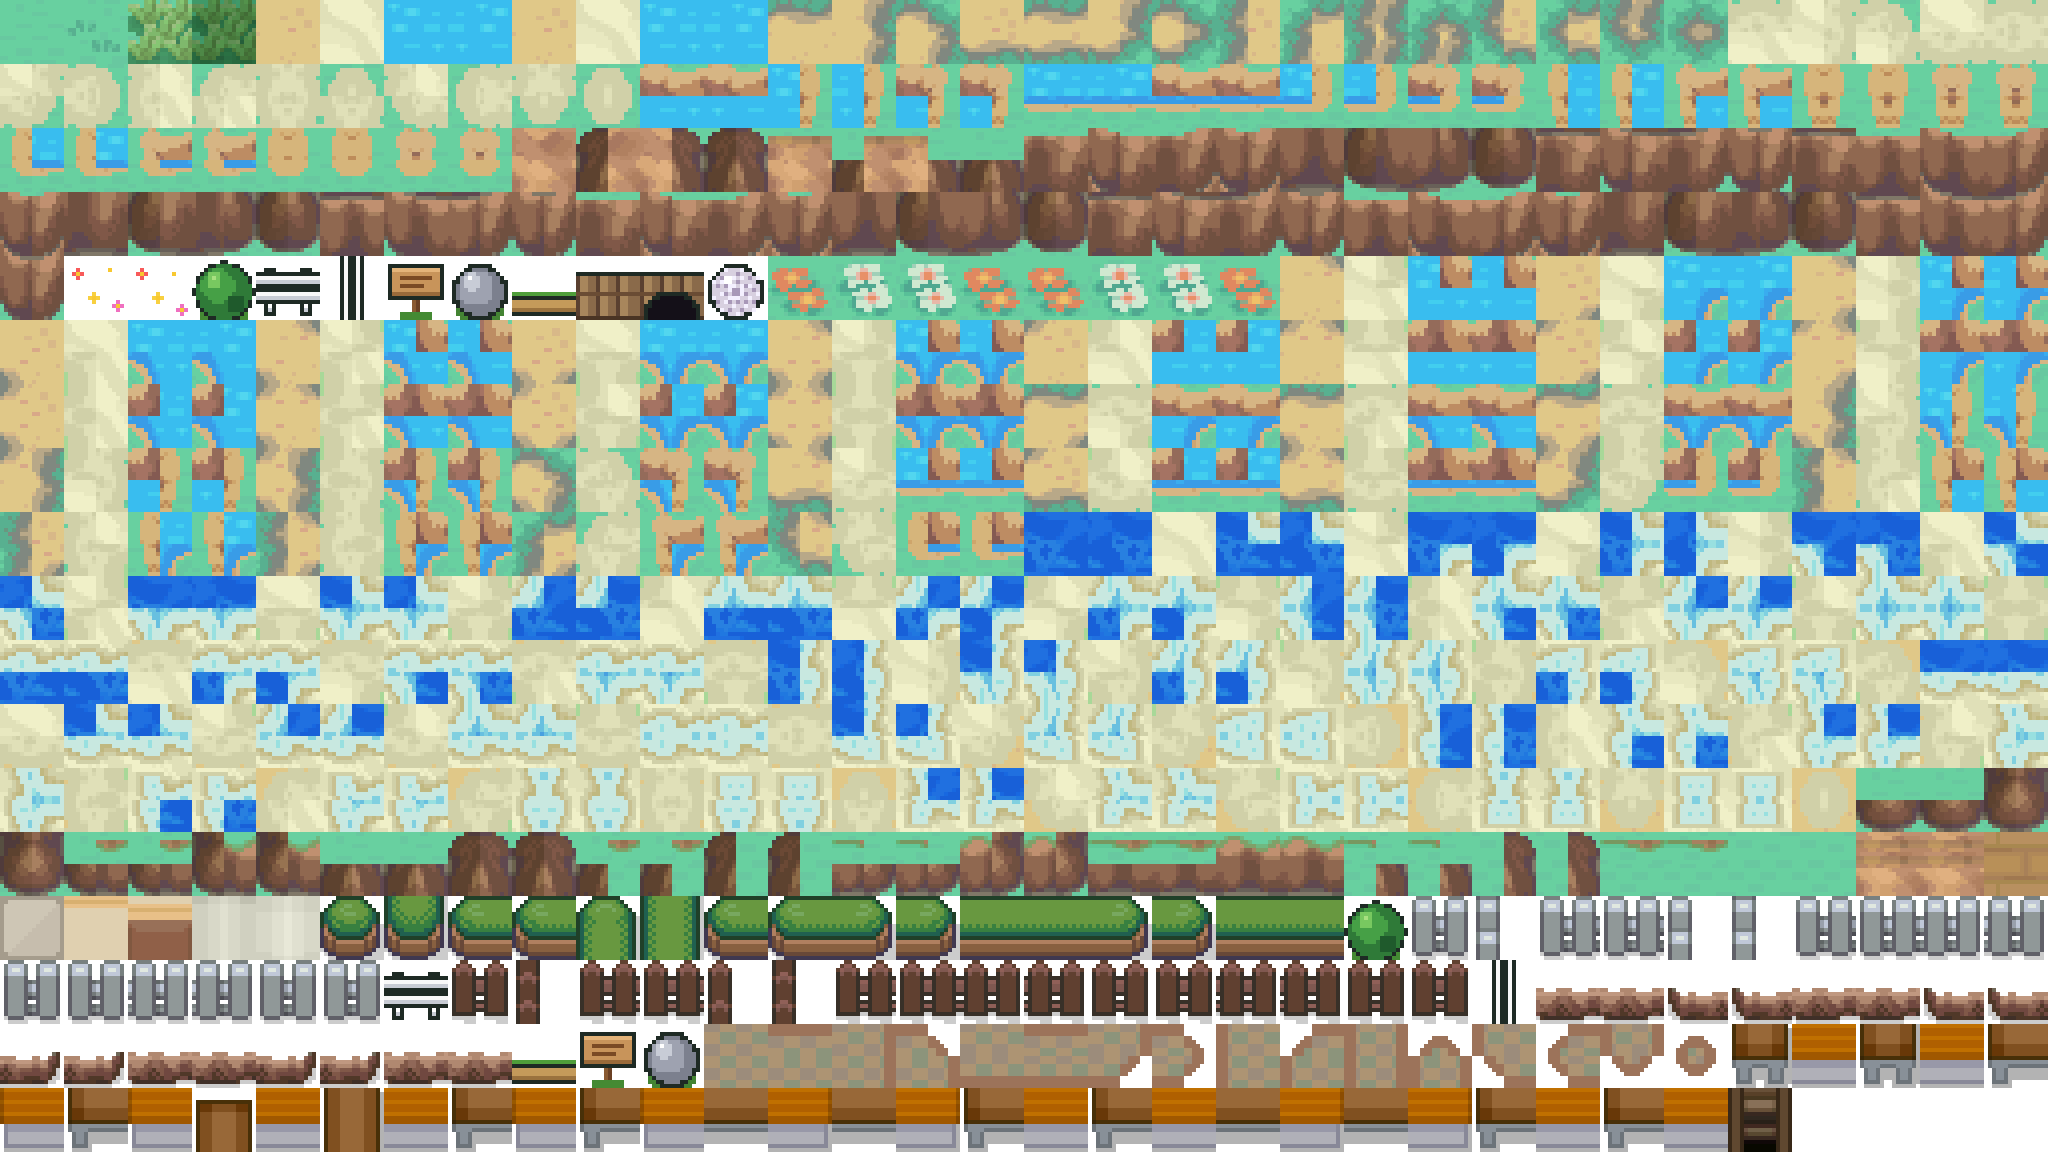
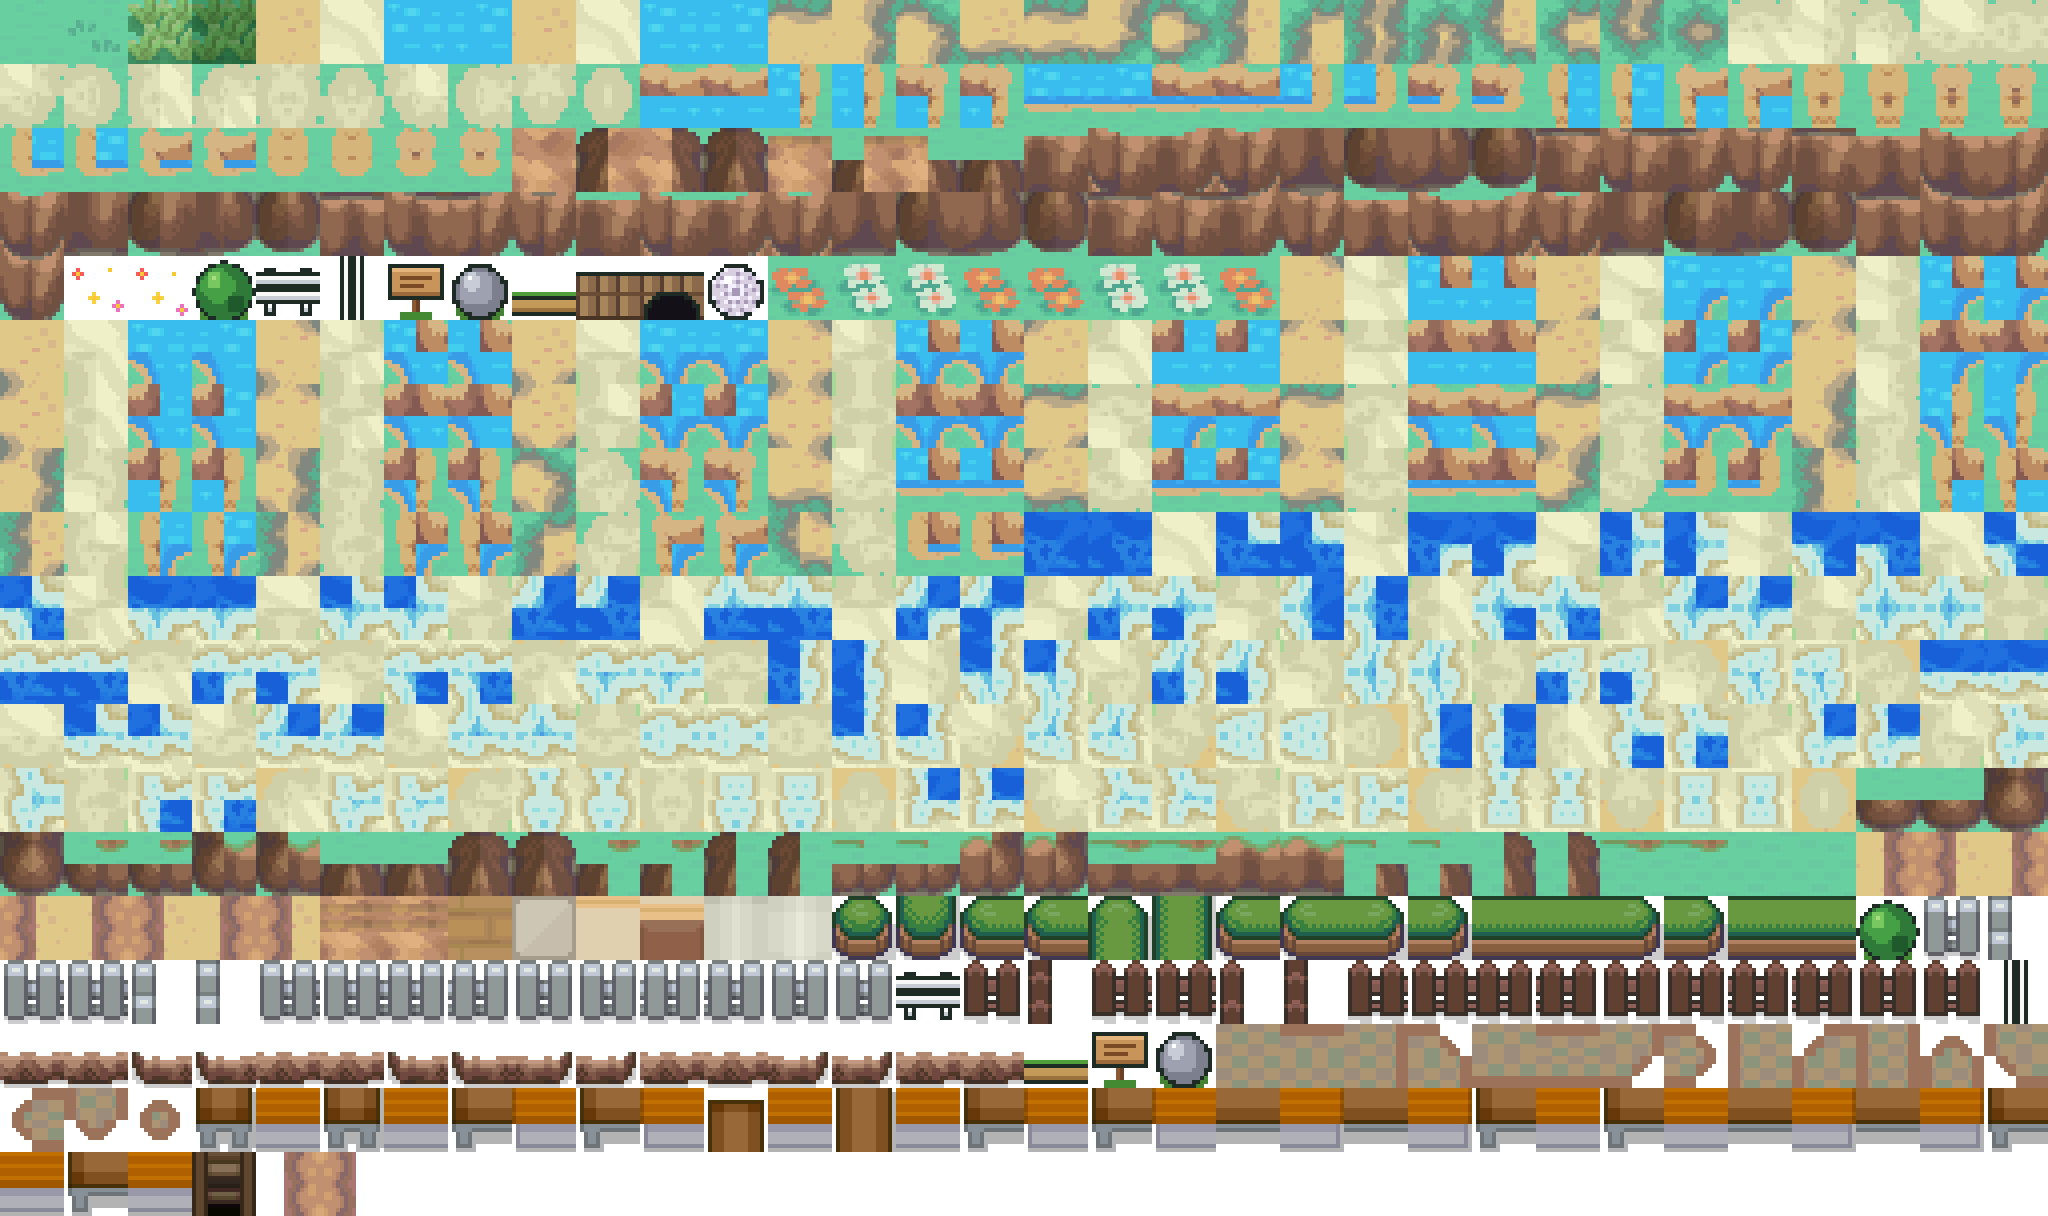
V2: laterales de las terrazas de montaña (canto junto a los árboles y al río)
Claude-Session: https://claude.ai/code/session_018v1fAZrQHSEnPWssP3zxe4

diff --git a/src/game/world/builder.ts b/src/game/world/builder.ts
@@ -149,9 +149,26 @@ export const AJUSTES_TERRENO = {
    *  junto al camino (con el camino en lugar de césped, ver tools/art/tileset_v2.py). */
   orillaJuntoCamino: false,
 };
-export function mismoTerreno(m: MapDef, ch: string, xx: number, yy: number): boolean {
+/** V2: ¿la casilla de camino es una terraza de montaña? (subiendo o bajando por su columna, lo primero que no
+ *  es camino, agua ni puente es roca de montaña). */
+export function esTerraza(m: MapDef, x: number, y: number): boolean {
+  if (m.grid[y]?.[x] !== "p") return false;
+  for (const d of [-1, 1]) {
+    for (let k = 1; k < 12; k++) {
+      const c = m.grid[y + d * k]?.[x];
+      if (c === undefined) break;
+      if ("p~=|*^".includes(c)) continue;
+      if (c === "%" || c === "O") return true;
+      break;
+    }
+  }
+  return false;
+}
+export function mismoTerreno(m: MapDef, ch: string, xx: number, yy: number, ox = xx, oy = yy): boolean {
   const sinBorde = ch === "p" ? (AJUSTES_TERRENO.orillaJuntoCamino ? "%^=|*Os!" : "%^=|*O~s!") : ch === "~" ? (AJUSTES_TERRENO.orillaJuntoCamino ? "=|*%" : "=|*%p") : ch === "s" ? (AJUSTES_TERRENO.orillaJuntoCamino ? "%^=|*O~" : "%^=|*O~p") : "";
   const c = m.grid[yy]?.[xx];
+  // V2: entre una terraza de montaña y el río no hay orilla (el canto de la terraza cae al agua)
+  if (AJUSTES_TERRENO.orillaJuntoCamino && ((ch === "~" && c === "p" && esTerraza(m, xx, yy)) || (ch === "p" && c !== undefined && "~*".includes(c) && esTerraza(m, ox, oy)))) return true;
   // (V1: el camino entra bajo la puerta de los edificios; V2: el borde del camino sigue recto bajo la fachada)
   return c === undefined || c === ch || sinBorde.includes(c) || (ch === "p" && (c.startsWith("@muro_puerta") || (c === "@puerta_hd" && !AJUSTES_TERRENO.orillaJuntoCamino)));
 }
@@ -160,7 +177,7 @@ export function mismoTerreno(m: MapDef, ch: string, xx: number, yy: number): boo
 export function esquinas(m: MapDef, x: number, y: number): number {
   const ch = m.grid[y]?.[x];
   if (ch !== "~" && ch !== "p" && ch !== "s") return 0;
-  const s = (dx: number, dy: number) => mismoTerreno(m, ch, x + dx, y + dy);
+  const s = (dx: number, dy: number) => mismoTerreno(m, ch, x + dx, y + dy, x, y);
   let d = 0;
   if (s(0, -1) && s(1, 0) && !s(1, -1)) d |= 1;
   if (s(0, 1) && s(1, 0) && !s(1, 1)) d |= 2;
@@ -190,7 +207,7 @@ export function tileAt(m: MapDef, x: number, y: number, frame = 0): string {
     return `monte_cima_${roca(x, y - 1) ? 0 : 1}${e}${w}`;
   }
   if (ch === "~" || ch === "p" || ch === "s") {
-    const same = (xx: number, yy: number) => mismoTerreno(m, ch, xx, yy);
+    const same = (xx: number, yy: number) => mismoTerreno(m, ch, xx, yy, x, y);
     const mask = (same(x, y - 1) ? 0 : 1) | (same(x + 1, y) ? 0 : 2) | (same(x, y + 1) ? 0 : 4) | (same(x - 1, y) ? 0 : 8);
     if (ch === "~") return `agua_${mask}_${frame % 64 < 32 ? 0 : 1}`;
     return `${ch === "p" ? "camino" : "arena"}_${mask}`;

diff --git a/src/game/scenes/overworld.ts b/src/game/scenes/overworld.ts
@@ -5,7 +5,7 @@ import { AVATAR_SPRITE } from "../state";
 import type { Gfx } from "../gfx";
 import { W, H } from "../gfx";
 import { MAPS } from "../world/maps";
-import { tileAt, passable, isGrass, esquinas, mismoTerreno, AJUSTES_TERRENO, type MapDef, type NpcDef } from "../world/builder";
+import { tileAt, passable, isGrass, esquinas, mismoTerreno, esTerraza, AJUSTES_TERRENO, type MapDef, type NpcDef } from "../world/builder";
 import { V2 } from "../assets_data";
 AJUSTES_TERRENO.orillaJuntoCamino = V2;
 import { runScript, talkNpc, trainerBattle, wildBattle } from "../scripts";
@@ -475,9 +475,20 @@ export class Overworld implements Scene {
       }
       if (V2) t = this.variantePlaya(t, x, y);
       // V2: escaleras de un desnivel de césped (las de la montaña son de roca)
+      // V2: el borde de las terrazas de la montaña es su canto (lateral), que da sensación de altura
+      if (V2 && t === "valla_v") {
+        if (tileAt(this.map, x - 1, y).startsWith("camino")) t = "lateral_e";
+        else if (tileAt(this.map, x + 1, y).startsWith("camino")) t = "lateral_o";
+      }
       if (V2 && t === "escalon" && [x - 1, x + 1].some((xx) => tileAt(this.map, xx, y) === "acantilado")) t = "escalon_cesped";
       const vec = this.vecinos(x, y, t);
       g.tile(t, x * 16 - cx, y * 16 - cy, x, y, suelo, vec, this.map.env, t === "acantilado" || t === "cueva_entrada" ? 0 : esquinas(this.map, x, y));
+      // V2: el canto de una terraza de montaña que cae al río
+      if (V2 && this.map.grid[y][x] === "p" && esTerraza(this.map, x, y)) {
+        const agua = (c?: string) => c === "~" || c === "*";
+        if (agua(this.map.grid[y][x - 1]) && TERR.index["obj:canto_o"] !== undefined) g.terr(TERR.index["obj:canto_o"], x * 16 - cx, y * 16 - cy);
+        if (agua(this.map.grid[y][x + 1]) && TERR.index["obj:canto_e"] !== undefined) g.terr(TERR.index["obj:canto_e"], x * 16 - cx, y * 16 - cy);
+      }
     }
     for (const [n, x, y] of trees) {
       const m = PROPS[n];

diff --git a/tools/art/tileset_v2.py b/tools/art/tileset_v2.py
@@ -351,7 +351,16 @@ def main():
                 pon(f"monte_alta_{e}{w}", sobre(HIERBA, pared(8838, e, w, q % 2)), q)
                 pon(f"monte_cara2_{e}{w}", sobre(HIERBA, pared(8854, e, w, q % 2)), q)
                 pon(f"monte_cara1_{e}{w}", sobre(HIERBA, pared(8808, e, w, q % 2)), q)
-    pon("monte_cueva", sobre(HIERBA, pared(8854, 0, 0, 0)))          # la boca va encima (obj_monte_cueva)
+    pon("monte_cueva", sobre(HIERBA, pared(8854, 0, 0, 0)))
+    # laterales de las terrazas (anillo de borde de meseta, filas 545-546): el canto de la terraza que cae al
+    # terreno de al lado; «lateral_e» con la terraza al oeste (canto a la derecha) y «lateral_o» al revés
+    tierra = t16(EXT, 1, 1)
+    for q in range(4):
+        r = 545 + (q // 2)
+        pon("lateral_e", sobre(tierra, a_cesped_v2(t16(T2, r, 7))), q)
+        pon("lateral_o", sobre(tierra, a_cesped_v2(t16(T2, r, 4))), q)
+    # el mismo canto suelto, para dibujarlo sobre el borde de una terraza que da al río
+    objetos_extra = {"obj:canto_e": x4(a_cesped_v2(t16(T2, 545, 7))), "obj:canto_o": x4(a_cesped_v2(t16(T2, 545, 4)))}          # la boca va encima (obj_monte_cueva)
     # escaleras talladas: en la roca de la montaña y en los desniveles de césped
     pon("escalon", sobre(t16(T2, 331, 4), t16(T2, 331, 4)))
     pon("escalon_cesped", sobre(t16(T2, 331, 4), t16(T2, 331, 4)))         # también de roca: se leen mejor
@@ -382,6 +391,7 @@ def main():
         objetos[f"obj:mesa~{k}"] = x4(pieza_lineal(k, **mesa))
         objetos[f"obj:mostrador~{k}"] = x4(pieza_lineal(k, **mostr))
     objetos["obj:escaleras"] = x4(t16(INT, 505, 1))
+    objetos.update(objetos_extra)
 
     # ---- atlas de terreno
     nombres = list(celdas) + list(objetos)

diff --git a/PROGRESO.md b/PROGRESO.md
@@ -186,5 +186,7 @@ Roadmap: 7 fases (0–6). Cada fase termina en una puerta.
 
 - V2, montaña (Ruta 3 y demás «%»): las paredes usan las piezas de pared de la lámina terreno2 (filas 550-557): la de dos alturas repartida entre la casilla alta y la baja, la de una altura en una casilla, con extremos redondeados a los lados abiertos; la boca de cueva es la de la lámina (2 casillas de ancho), dibujada encima de la pared (también en los desniveles de césped).
 
+- V2, laterales de la montaña: los bordes de las terrazas usan el canto del anillo de meseta (terreno2, filas 545-546): junto a los árboles (en lugar de la valla) y junto al río, que queda encajado entre cantos sin orilla (`esTerraza` en builder.ts). Da la sensación de que cada terraza está más alta que lo que tiene al lado.
+
 ## Siguiente tarea
 Pendiente del GDD: Modo Torneo y mochila bloqueada en Difícil, objetos equipados, variocolor y RandomLocke. Posibles mejoras: más diálogos y misiones secundarias, mejorar la calidad de los sprites (Microos diseñados por especie, retratos limpios, pasos), música y efectos.
